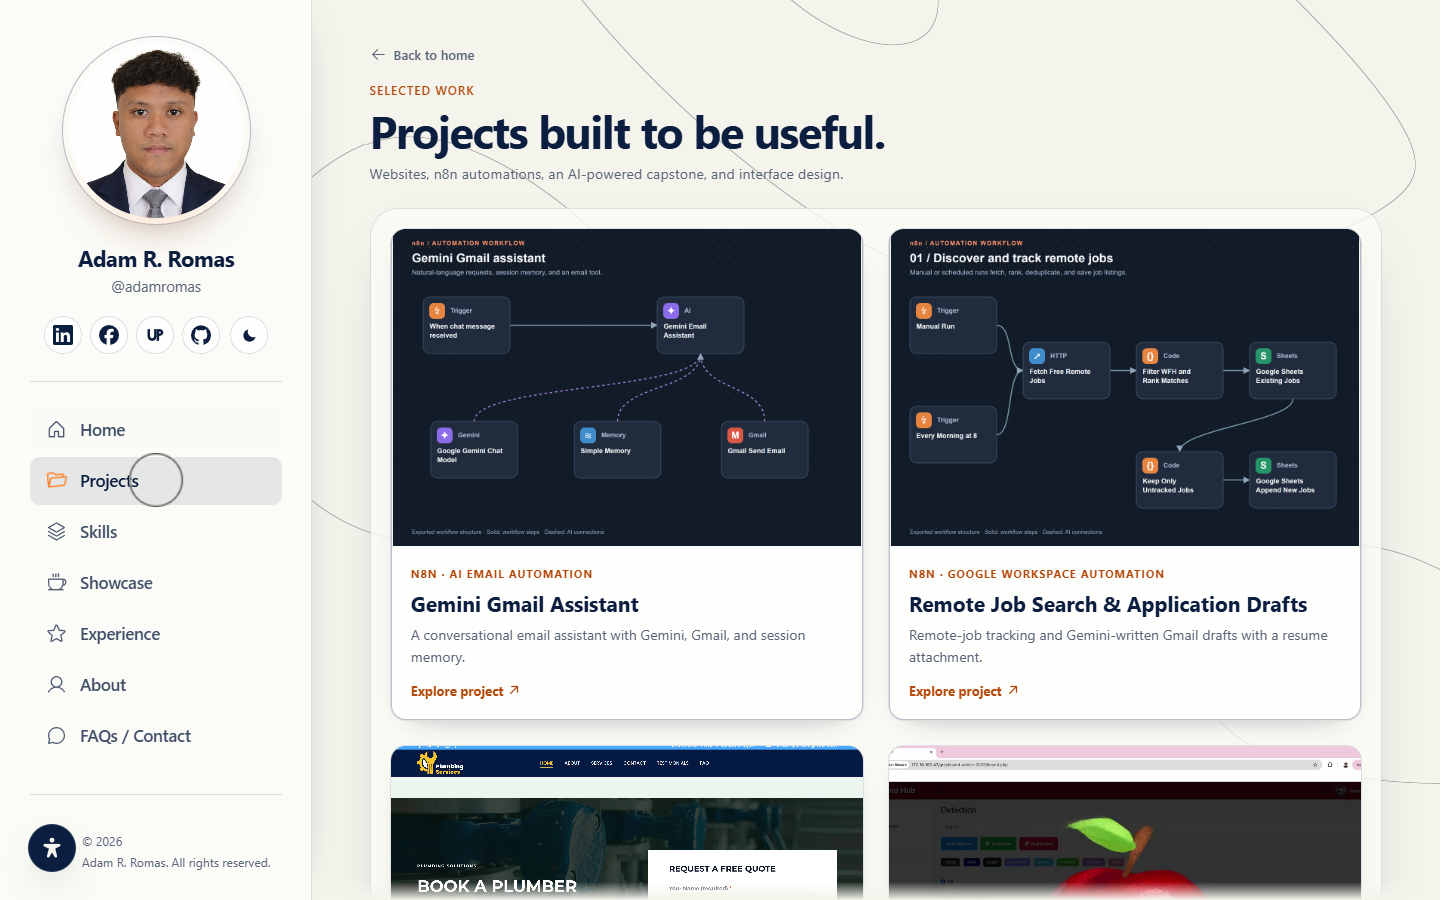
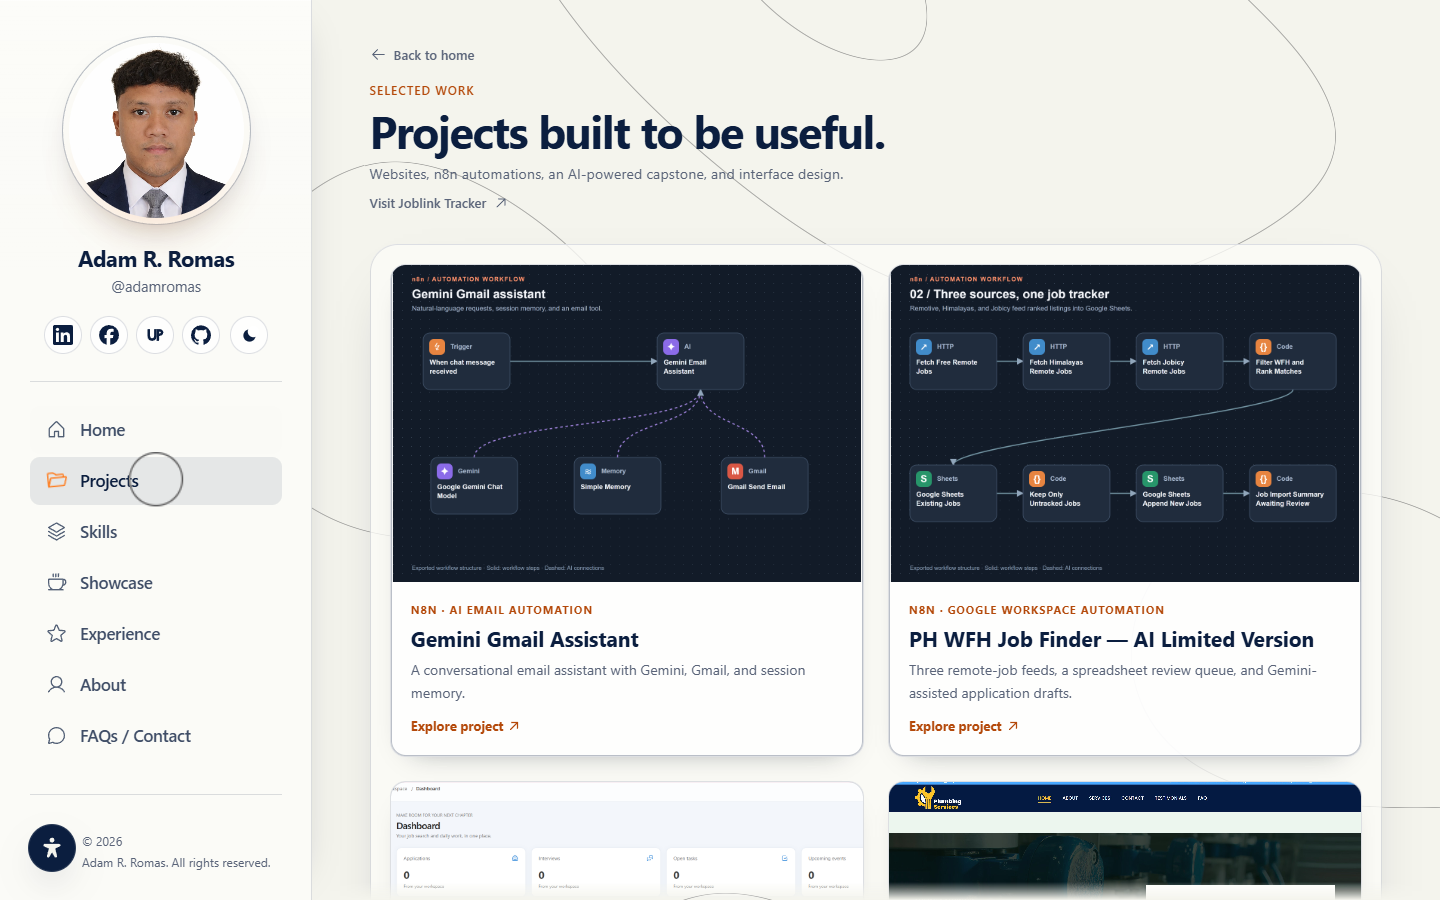
Fix Vercel route reloads and showcase updated Job Finder and Joblink

diff --git a/src/data/workflows.ts b/src/data/workflows.ts
@@ -20,34 +20,53 @@ export const workflowProjects: PortfolioProject[] = [
     }],
   },
   {
-    title: 'Remote Job Search & Application Drafts',
+    title: 'PH WFH Job Finder — AI Limited Version',
     category: 'n8n · Google Workspace automation',
-    description: 'Remote-job tracking and Gemini-written Gmail drafts with a resume attachment.',
-    details: 'Manual and 8 AM triggers start job discovery and application-drafting branches. The workflow ranks remote listings, avoids tracked job IDs, saves new jobs in Google Sheets, and prepares Gmail drafts for rows marked Ready to Draft. Google Drive provides the resume, a code step validates the PDF, and the draft ID is recorded in the tracker.',
+    description: 'Three remote-job feeds, a spreadsheet review queue, and Gemini-assisted application drafts.',
+    details: 'An improved n8n workflow combines Remotive, Himalayas, and Jobicy listings, ranks relevant roles, and saves untracked job IDs to the 19-column JOBHACK2026 tracker. A two-minute schedule checks for approved draft requests while an independent eight-hour gate controls automatic job discovery. Rows marked Ready to Draft with a valid employer email and no existing draft ID go to Gemini, then receive a validated PDF resume from Drive and a Gmail draft. The sheet records the subject, message, draft ID, and Draft Ready status for review before sending.',
     imageSrc: '/images/workflows/job-discovery.png',
-    imageAlt: 'n8n remote-job discovery and Google Sheets tracking workflow',
+    imageAlt: 'Updated three-source n8n job discovery and Google Sheets tracking diagram',
     imageFit: 'contain',
     href: '/images/workflows/job-discovery.png',
     linkLabel: 'Explore workflow',
     previewWidth: 1100,
     gallery: [
       {
+        src: '/images/workflows/job-finder-overview.png',
+        alt: 'Complete PH WFH Job Finder workflow structure from the supplied AI Limited Version n8n export',
+        label: 'Full workflow',
+        previewWidth: 3500,
+        caption: 'Full workflow diagram rendered from PH-WFH JOB FINDER-AI LIMITED VERSION AI.json, preserving its node positions and connections. The upper branch discovers and tracks jobs; the lower branch scans approved spreadsheet rows, generates application text, attaches the resume, and saves Gmail drafts. Use the individual views for close-ups. This is a rendered export, not a live n8n execution screenshot.',
+      },
+      {
+        src: '/images/workflows/job-search-schedule.png',
+        alt: 'Two-minute schedule with an independent eight-hour job search gate and a manual bypass',
+        label: 'Search schedule',
+        caption: 'The published workflow ticks every two minutes. Automatic discovery runs on the first tick and then every eight hours, independently of tracker contents. Manual Run starts discovery immediately. These are diagrams rendered from the supplied n8n export, rather than screenshots of a live n8n execution.',
+      },
+      {
         src: '/images/workflows/job-discovery.png',
-        alt: 'Manual and scheduled triggers fetch jobs, rank matches, remove duplicates, and append new jobs to Sheets',
+        alt: 'Remotive, Himalayas, and Jobicy feeds are ranked, deduplicated by tracked job ID, and appended to Sheets',
         label: 'Discover jobs',
-        caption: 'A manual run or the 8 AM schedule fetches remote jobs from Remotive. A code step ranks matches across IT support, customer service, administration, AI/automation, and web/QA. Existing job IDs are read from Google Sheets; only untracked jobs are appended. Both triggers also start the separate drafting branch.',
+        caption: 'Three public feeds supply listings: Remotive, Himalayas, and Jobicy. Code normalizes fields, ranks relevant roles with Philippines/global-location signals, and keeps up to 200 candidates. Existing job IDs prevent repeat imports. New jobs enter the tracker as New, with application-email evidence when available; Philippines eligibility still needs review.',
       },
       {
         src: '/images/workflows/application-writing.png',
         alt: 'Google Sheets rows are checked for drafting eligibility and Gemini produces application email JSON',
         label: 'Write applications',
-        caption: 'The drafting branch reads tracker rows, keeps jobs marked Ready to Draft with a valid recipient and job URL, and skips rows with an existing draft ID. Gemini writes the application subject and body, then a parsing step validates the returned JSON before the resume steps.',
+        caption: 'The separate two-minute scan reads tracker rows and selects eligible Ready to Draft jobs with a valid employer email, a job ID, and no existing Gmail draft ID. Despite its Choose One Row name, the supplied code returns all eligible unique rows. Gemini prepares the subject and message, and a parser checks the email JSON.',
       },
       {
         src: '/images/workflows/resume-drafts.png',
         alt: 'Drive resume download, PDF validation, Gmail draft creation, and Sheets draft ID update',
         label: 'Attach & save',
-        caption: 'Google Drive downloads the resume. A validation step checks that the attachment is a PDF, Gmail creates a draft with the resume attached, and Google Sheets records the draft ID. The workflow stops at draft creation so the application can be reviewed before sending.',
+        caption: 'Drive supplies the resume, a validation step checks the PDF, and Gmail creates an application draft with the attachment. Google Sheets stores the draft ID, application subject, and message, then changes Status to Draft Ready. Applications remain drafts for review; this workflow does not send them.',
+      },
+      {
+        src: '/images/workflows/job-tracker-sheet.png',
+        alt: 'Rendered JOBHACK2026 workbook excerpt with job metadata and application status counts',
+        label: 'Tracker datasheet',
+        caption: 'Rendered excerpt of the supplied JOBHACK2026 workbook, not a Google Sheets UI screenshot. Its three tabs are Job Tracker, Workflow Guide, and Status Summary. This snapshot contains 207 job IDs: 193 New, 1 Ready to Draft, and 13 Draft Ready. The 19-column tracker includes source, match score, employer-email evidence, application text, and draft IDs. The public preview shows only job metadata.',
       },
     ],
   },

diff --git a/src/data/portfolio.ts b/src/data/portfolio.ts
@@ -13,13 +13,32 @@ export type PortfolioProject = {
   href: string
   linkLabel: string
   external?: boolean
-  gallery?: { src: string; alt: string; label: string; caption?: string }[]
+  gallery?: { src: string; alt: string; label: string; caption?: string; previewWidth?: number }[]
   videoId?: string
   previewWidth?: number
 }
 
 export const portfolioProjects: PortfolioProject[] = [
   ...workflowProjects,
+  {
+    title: 'Joblink Tracker',
+    category: 'Web app · Job application tracking',
+    description: 'A job-search workspace with applications, tasks, a calendar, and career news.',
+    details: 'Joblink brings job discovery and daily planning into one workspace. Its dashboard summarizes applications, interviews, open tasks, and upcoming events. Explore Jobs offers keyword, source, role, location, and employment-type filters, plus links to apply on the original job site and save listings. The workspace also includes an application tracker, task board, calendar, saved links, a sheet, and career news from DEV Community. The gallery shows 4K screenshots captured from the live authenticated dashboard, job search, and news pages.',
+    imageSrc: '/images/joblink/joblink-dashboard.png',
+    imageAlt: 'Joblink Tracker dashboard showing application, interview, task, and event summaries',
+    imageFit: 'cover',
+    href: 'https://joblink-tracker-c8zm.vercel.app/',
+    linkLabel: 'Visit Joblink Tracker',
+    external: true,
+    gallery: [
+      { src: '/images/joblink/joblink-dashboard.png', alt: 'Joblink workspace dashboard with application and planning summaries', label: 'Dashboard', caption: 'Live dashboard screenshot captured at 3840 x 2160. Four summary cards show applications, interviews, open tasks, and upcoming events. Recent applications and next steps sit alongside shortcuts to the task board, calendar, and news.' },
+      { src: '/images/joblink/joblink-jobs.png', alt: 'Joblink Explore Jobs page with search filters and job cards', label: 'Explore jobs', caption: 'Live Explore Jobs screenshot captured at 3840 x 2160. Search by keyword and feed, classify by role, and filter loaded listings by location and employment type. Listings from Remotive, Arbeitnow, and Jobicy link to their original application pages and provide a Save action.' },
+      { src: '/images/joblink/joblink-news.png', alt: 'Joblink career news page with topic filters, DEV Community stories, and upcoming events', label: 'News & events', caption: 'Live news and events screenshot captured at 3840 x 2160. Career, remote-work, and productivity topics organize DEV Community stories with author attribution. Upcoming events and Philippine career-resource links support the job-search workspace.' },
+      { src: '/images/joblink/joblink-desktop.png', alt: 'Joblink desktop sign-in page', label: 'Desktop', caption: 'Actual screenshot of the public Joblink Tracker sign-in screen. Users can continue with Google, sign in with email and password, or create an account.' },
+      { src: '/images/joblink/joblink-mobile.png', alt: 'Joblink mobile sign-in page', label: 'Mobile', caption: 'Actual mobile screenshot of the Joblink sign-in screen. The application dashboard is available after authentication.' },
+    ],
+  },
   {
     title: '5S Plumbing',
     imageSrc: '/images/5s-plumbing.jpg',

diff --git a/src/components/ProjectPreview.tsx b/src/components/ProjectPreview.tsx
@@ -10,6 +10,7 @@ export default function ProjectPreview({ project, onClose }: { project: Portfoli
   const [frame, setFrame] = useState(0)
   const [zoom, setZoom] = useState(1)
   const gallery = project.gallery ?? [{ src: project.imageSrc!, alt: project.imageAlt ?? project.title, label: 'Preview' }]
+  const previewWidth = gallery[frame].previewWidth ?? project.previewWidth
 
   useEffect(() => {
     const dialog = dialogRef.current!
@@ -66,7 +67,7 @@ export default function ProjectPreview({ project, onClose }: { project: Portfoli
         </header>
         {!project.videoId && (
           <div className="project-preview__toolbar">
-            <div className="project-preview__tabs" aria-label="Design frames">
+            <div className="project-preview__tabs" aria-label="Project views">
               {gallery.map((image, index) => (
                 <button key={image.src} className="preview-control" aria-pressed={frame === index} onClick={() => { setFrame(index); setZoom(1); stageRef.current?.scrollTo({ top: 0, left: 0 }) }}>{image.label}</button>
               ))}
@@ -76,7 +77,7 @@ export default function ProjectPreview({ project, onClose }: { project: Portfoli
               <button className="preview-control" aria-label="Reset image zoom" onClick={() => setZoom(1)}>{Math.round(zoom * 100)}%</button>
               <button className="preview-control preview-control--icon" aria-label="Zoom in" disabled={zoom >= 2} onClick={() => setZoom(z => Math.min(2, z + 0.25))}><MagnifyingGlassPlus size={18} /></button>
             </div>
-            {project.previewWidth && <span className="project-preview__pan-hint">Scroll to follow the workflow</span>}
+            {previewWidth && <span className="project-preview__pan-hint">Scroll to follow the workflow</span>}
           </div>
         )}
         <div ref={stageRef} tabIndex={0} role="region" aria-label="Scrollable project preview" className={`project-preview__stage${project.gallery && project.title === 'Restaurant App' ? ' project-preview__stage--phone' : ''}`}>
@@ -85,7 +86,7 @@ export default function ProjectPreview({ project, onClose }: { project: Portfoli
               <iframe src={`https://www.youtube-nocookie.com/embed/${project.videoId}`} title={`${project.title} project demo`} referrerPolicy="strict-origin-when-cross-origin" allow="accelerometer; autoplay; encrypted-media; gyroscope; picture-in-picture; web-share" allowFullScreen />
             </div>
           ) : (
-            <div className="project-preview__image" style={{ width: project.previewWidth ? `${project.previewWidth * zoom}px` : `${zoom * 100}%`, maxWidth: project.title === 'Restaurant App' ? `${600 * zoom}px` : undefined }}>
+            <div className="project-preview__image" style={{ width: previewWidth ? `${previewWidth * zoom}px` : `${zoom * 100}%`, maxWidth: project.title === 'Restaurant App' ? `${600 * zoom}px` : undefined }}>
               <img src={gallery[frame].src} alt={gallery[frame].alt} />
             </div>
           )}

diff --git a/src/components/ProjectsGrid.tsx b/src/components/ProjectsGrid.tsx
@@ -16,6 +16,9 @@ export default function ProjectsGrid() {
         <p className="pgrid__lede">
           Websites, n8n automations, an AI-powered capstone, and interface design.
         </p>
+        <a className="page-back" href="https://joblink-tracker-c8zm.vercel.app/" target="_blank" rel="noopener noreferrer">
+          Visit Joblink Tracker <ArrowUpRight size={16} aria-hidden="true" />
+        </a>
       </header>
 
       <div className="home__glass pgrid__glass portfolio-page__glass">

diff --git a/README.md b/README.md
@@ -33,6 +33,10 @@ npm run preview
 
 The build typechecks the app and writes production files to `dist/`. Hosting must route application paths such as `/projects` and `/showcase` to `index.html`.
 
+### Vercel deployment
+
+Use `adam-port/portfolio-template-main` as the Root Directory if deploying the entire workspace, or the repository root if deploying AdamPortfolio directly. Select Vite, build with `npm run build`, and use `dist` as the Output Directory. The included `vercel.json` rewrites application routes to `index.html`, allowing direct visits and refreshes on `/projects` and other React Router pages. Redeploy after uploading or pushing this configuration; existing deployments do not receive local edits automatically.
+
 ## Update content
 
 - Profile, introduction, contact details, and social links: `src/data/profile.ts`
@@ -41,7 +45,9 @@ The build typechecks the app and writes production files to `dist/`. Hosting mus
 - Images, workflow previews, and resume: `public/`
 - Shared preview and card styling: `src/styles/portfolio-ui.css`
 
-Generated workflow images are included. Regenerating them with `scripts/capture-workflows.mjs` requires the original n8n JSON exports in the external references folder used during development. Those exports are not included in this repository.
+Generated workflow diagrams and screenshots are included. `node scripts/capture-workflows.mjs "<path-to-updated-workflow.json>"` renders the updated PH WFH workflow; the original Gemini Gmail Assistant export must also exist two directories above the checkout. Diagrams show node labels and connections, not live n8n executions. Raw exports and their credentials are not published.
+
+The Joblink gallery features live 4K (3840 x 2160) dashboard, job-search, and news screenshots. Run `node scripts/capture-joblink-authenticated.mjs` and sign in interactively to refresh them. Its dedicated browser profile is ignored by Git. `node scripts/capture-joblink.mjs` captures the public desktop and mobile sign-in screens included as additional views; authenticated screenshots are retained separately. The workbook gallery is a rendered excerpt of JOBHACK2026 (1).xlsx, with job metadata and snapshot status counts; it is not a screenshot of the Google Sheets interface. Email addresses, application messages, and draft IDs are excluded from the public excerpt.
 
 The contact form opens the visitor's email application by default. An optional backend can be configured with `VITE_CONTACT_ENDPOINT`.
 
